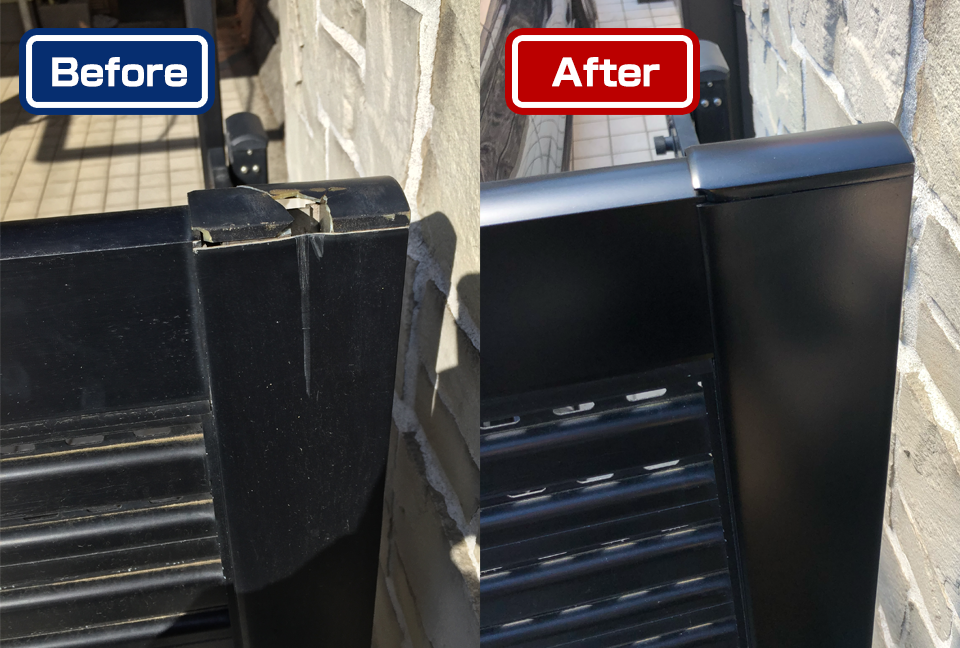
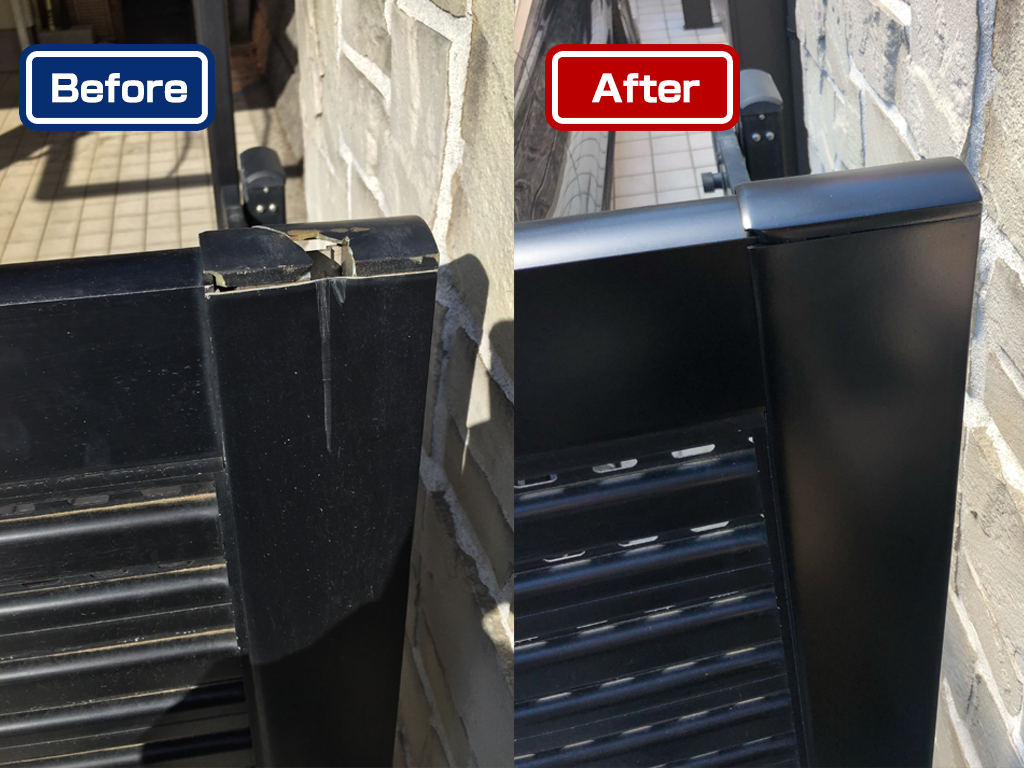
画像変更

diff --git a/documents.html b/documents.html
@@ -74,7 +74,7 @@
                 <!-- Point 1 -->
                 <div class="why-repair-item">
                     <div class="item-image">
-                        <img src="assets/images/common/before _after.png" alt="リペア技術とは">
+                        <img src="assets/images/common/partner.png" alt="リペアの取引先について">
                     </div>
                     <div class="item-desc">
                         <h3 class="item-title">リペアの取引先について</h3>
@@ -89,7 +89,7 @@
                 <!-- Point 2 -->
                 <div class="why-repair-item">
                     <div class="item-image">
-                        <img src="assets/images/common/what_repair.png" alt="リペア市場の成長">
+                        <img src="assets/images/common/reproducibility.png" alt="リペア技術の再現性">
                     </div>
                     <div class="item-desc">
                         <h3 class="item-title">リペア技術の再現性</h3>
@@ -104,7 +104,7 @@
                 <!-- Point 3 -->
                 <div class="why-repair-item">
                     <div class="item-image">
-                        <img src="assets/market_data_graph.png" alt="リペア業界の将来性">
+                        <img src="assets/images/common/investment.png" alt="リペアで必要な道具と初期投資">
                     </div>
                     <div class="item-desc">
                         <h3 class="item-title">リペアで必要な道具と初期投資</h3>
